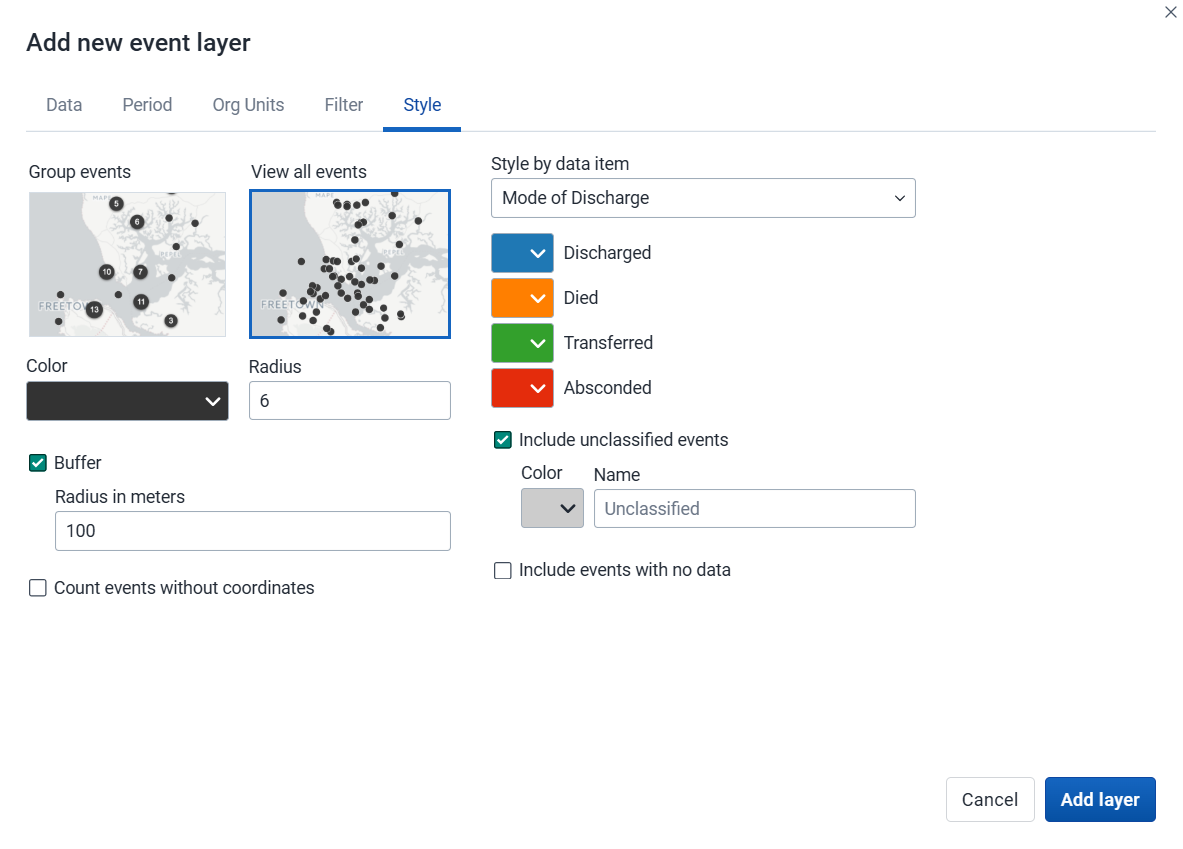
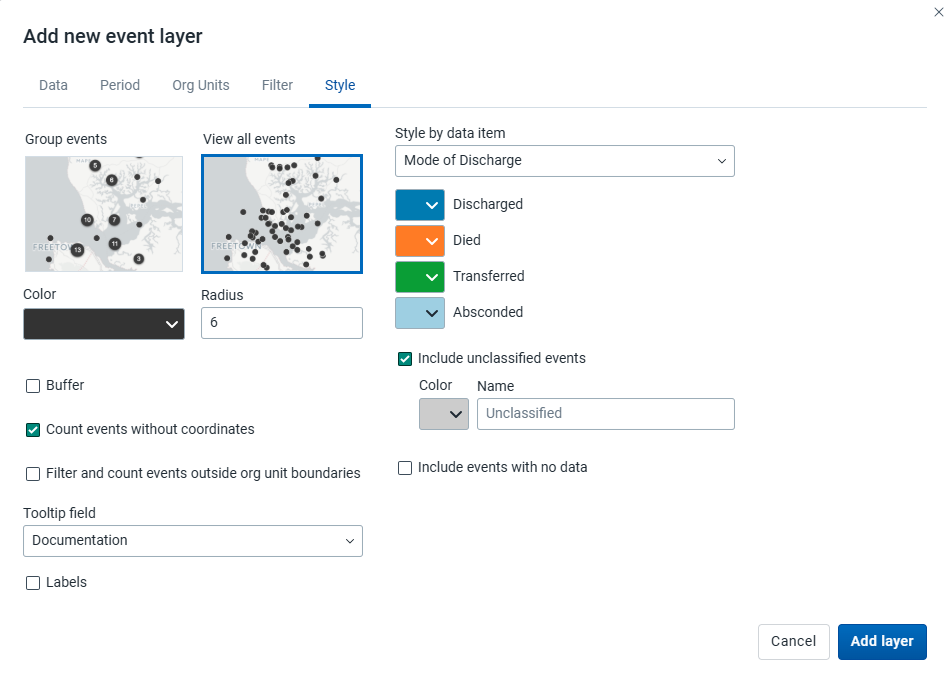
chore: docs update

diff --git a/docs/maps.md b/docs/maps.md
@@ -494,6 +494,17 @@ layer configuration dialog.
     **Data quality** section of the legend. They also appear in the data table. These events may or
     may not have data.
 
+-   **Filter and count events outside org unit boundaries**: Events falling outside the boundaries
+    of the selected org units are excluded from the map, and counted in the **Data quality** section
+    of the legend, which also flags when some or all of the selected org units lack boundary data.
+    These events remain in the data table, but can be identified by their empty **Org unit
+    boundary** column value. Events inside a boundary are tagged with the name of their containing
+    org unit in that same column.
+
+-   **Tooltip field**: Select a data element or attribute to show as a tooltip when hovering over an
+    event. Selecting **Labels** makes the tooltip persistent on the map. Font size, weight, style
+    and color can also be modified.
+
 -   Select **Style by data item** (data element or attribute) to colorize the events according to a
     data value. If events are grouped, clusters are displayed as small donut charts showing the
     distribution of the data values. The available options vary for different data types:

diff --git a/docs/src/05-event-layer.md b/docs/src/05-event-layer.md
@@ -100,6 +100,17 @@ layer configuration dialog.
     **Data quality** section of the legend. They also appear in the data table. These events may or
     may not have data.
 
+-   **Filter and count events outside org unit boundaries**: Events falling outside the boundaries
+    of the selected org units are excluded from the map, and counted in the **Data quality** section
+    of the legend, which also flags when some or all of the selected org units lack boundary data.
+    These events remain in the data table, but can be identified by their empty **Org unit
+    boundary** column value. Events inside a boundary are tagged with the name of their containing
+    org unit in that same column.
+
+-   **Tooltip field**: Select a data element or attribute to show as a tooltip when hovering over an
+    event. Selecting **Labels** makes the tooltip persistent on the map. Font size, weight, style
+    and color can also be modified.
+
 -   Select **Style by data item** (data element or attribute) to colorize the events according to a
     data value. If events are grouped, clusters are displayed as small donut charts showing the
     distribution of the data values. The available options vary for different data types: